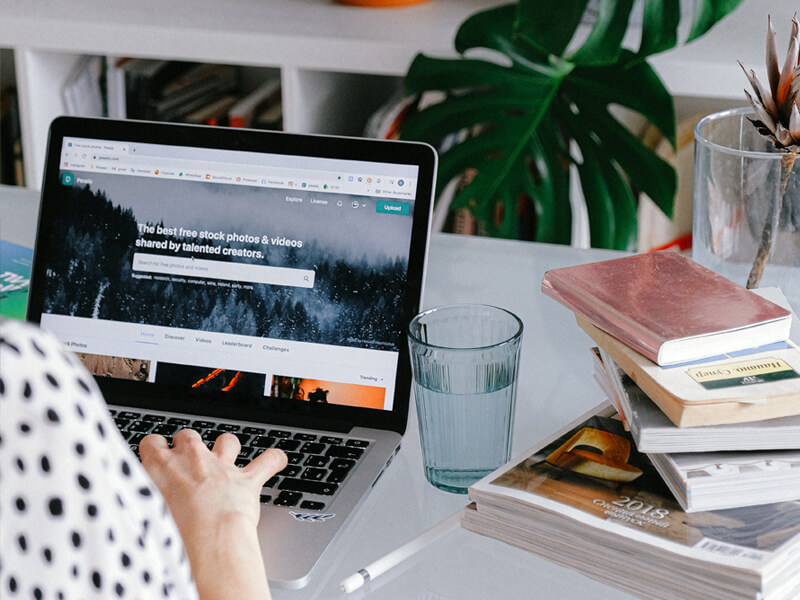
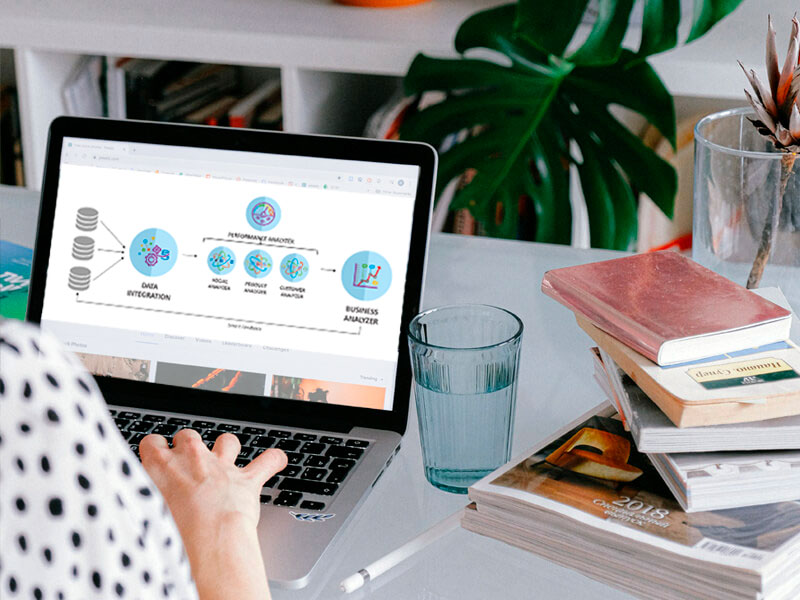
go back to the image

diff --git a/index.html b/index.html
@@ -280,10 +280,7 @@
                 </p>-->
               </div>
               <div class="col-lg-6 order-1 order-lg-2 text-center" data-aos="fade-up" data-aos-delay="200">
-                <video width="500" height="382" autoplay>
-                  <source src="assets/img/videos/example.mp4" type="video/mp4">
-                Your browser does not support the video tag.
-                </video>
+                <img src="assets/img/tabs-1.jpg" alt="" class="img-fluid">
                <!-- <img src="assets/img/tabs-1.jpg" alt="" class="img-fluid">-->
               </div>
             </div>
